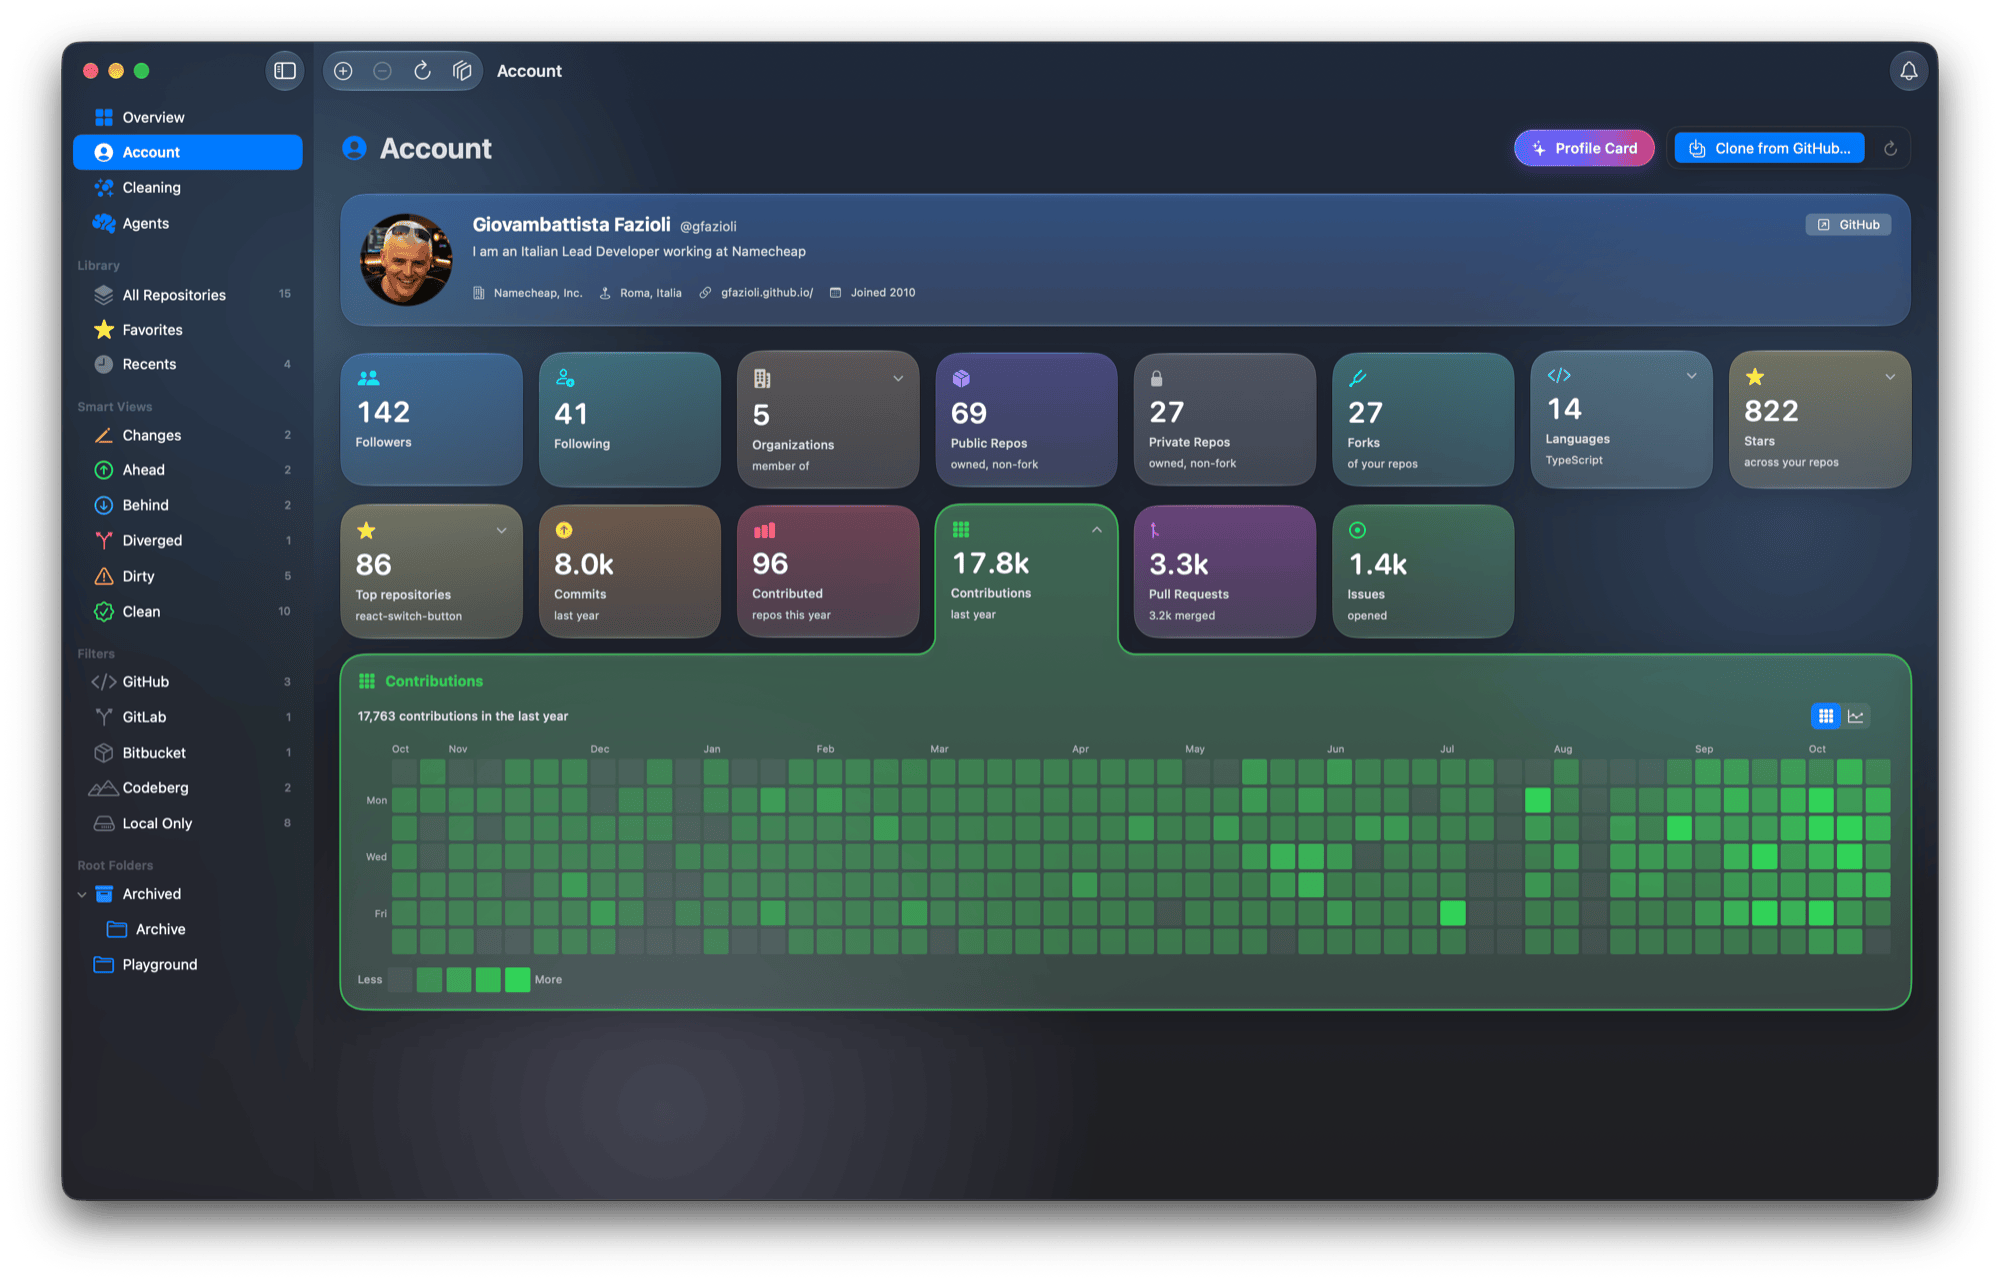
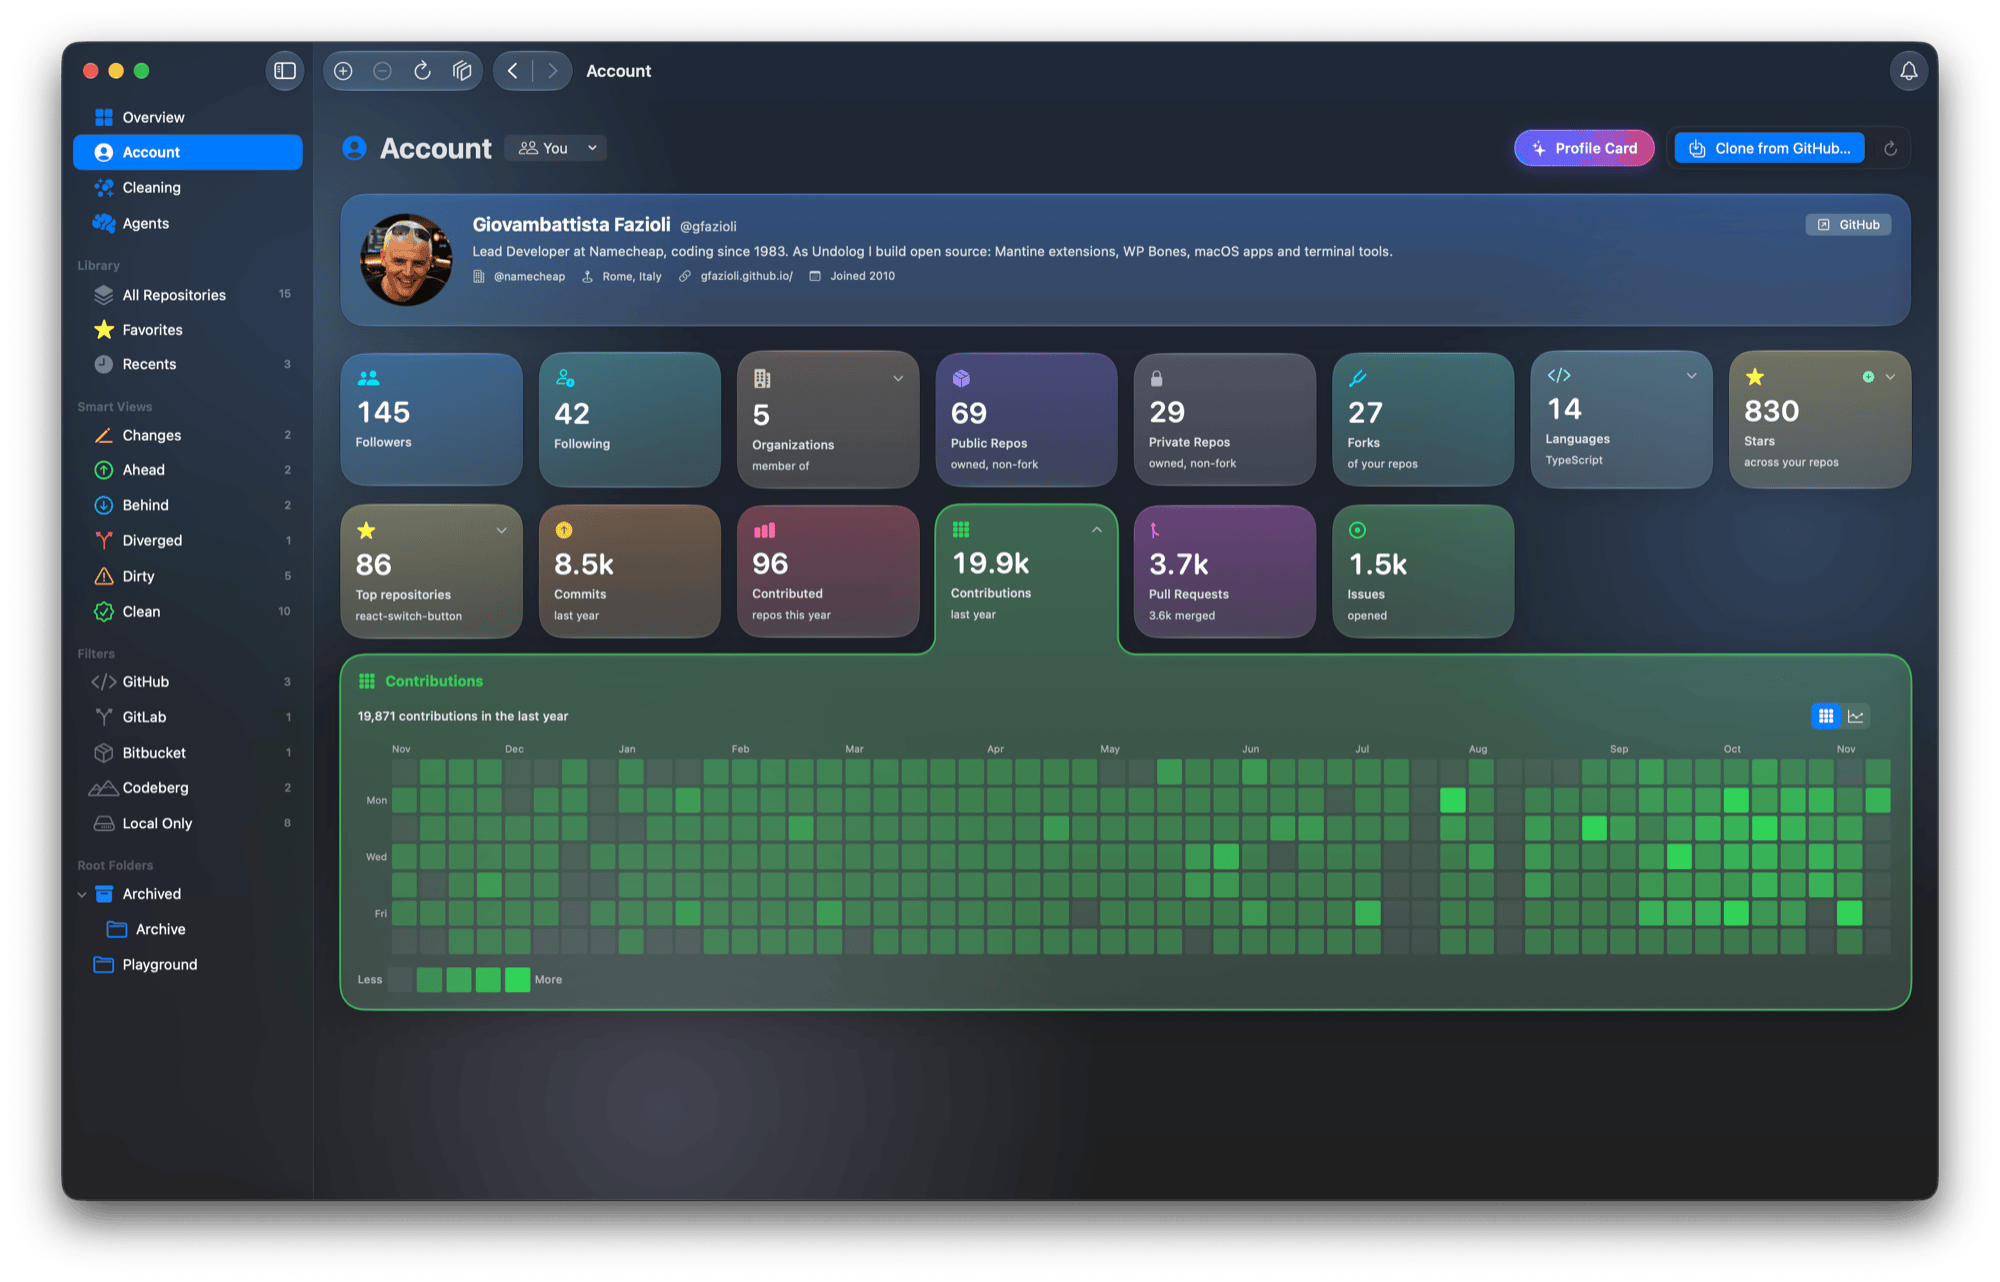
feat(sparkle): publish FinderGit v0.60.1 to appcast

diff --git a/public/release-notes/0.60.1.html b/public/release-notes/0.60.1.html
@@ -1,0 +1,104 @@
+<!DOCTYPE html>
+<html lang="en">
+<head>
+<meta charset="utf-8">
+<meta name="viewport" content="width=device-width, initial-scale=1">
+<title>FinderGit 0.60.1 — Release Notes</title>
+<style>
+  :root {
+    color-scheme: light dark;
+    --bg: #ffffff;
+    --fg: #1a1a1a;
+    --accent: #007aff;
+    --muted: #6b6b73;
+    --code-bg: #f4f4f5;
+    --border: rgba(0,0,0,0.12);
+  }
+  @media (prefers-color-scheme: dark) {
+    :root {
+      --bg: #1c1c1e;
+      --fg: #ececec;
+      --muted: #9c9ca5;
+      --code-bg: #2c2c2e;
+      --border: rgba(255,255,255,0.14);
+    }
+  }
+  * { box-sizing: border-box; }
+  body {
+    font: 14px/1.55 -apple-system, BlinkMacSystemFont, "SF Pro Text", "Helvetica Neue", sans-serif;
+    color: var(--fg);
+    background: var(--bg);
+    margin: 0 auto;
+    padding: 20px 24px 40px;
+    max-width: 720px;
+  }
+  header.page-header {
+    border-bottom: 1px solid var(--border);
+    padding-bottom: 14px;
+    margin-bottom: 22px;
+  }
+  header.page-header h1 { font-size: 1.7em; margin: 0 0 4px; letter-spacing: -0.02em; }
+  header.page-header .subtitle { color: var(--muted); margin: 0; font-size: 0.92em; }
+  h1, h2, h3, h4 { letter-spacing: -0.01em; margin: 1.5em 0 0.5em; }
+  h1 { font-size: 1.4em; }
+  h2 { font-size: 1.2em; }
+  h3 { font-size: 1em; }
+  a { color: var(--accent); }
+  hr { border: 0; border-top: 1px solid var(--border); margin: 22px 0; }
+  ul, ol { padding-left: 1.4em; }
+  li { margin: 4px 0; }
+  code {
+    font: 0.9em ui-monospace, "SF Mono", Menlo, Consolas, monospace;
+    background: var(--code-bg);
+    padding: 1px 5px;
+    border-radius: 3px;
+  }
+  pre {
+    background: var(--code-bg);
+    padding: 12px 14px;
+    border-radius: 6px;
+    overflow-x: auto;
+    font-size: 0.88em;
+  }
+  pre code { background: transparent; padding: 0; font-size: 1em; }
+  blockquote {
+    margin: 12px 0;
+    padding-left: 12px;
+    border-left: 3px solid var(--border);
+    color: var(--muted);
+  }
+  table { border-collapse: collapse; width: 100%; margin: 12px 0; font-size: 0.95em; }
+  th, td { border: 1px solid var(--border); padding: 6px 10px; text-align: left; }
+  th { background: var(--code-bg); }
+  img { max-width: 100%; }
+</style>
+</head>
+<body>
+<header class="page-header">
+  <h1>FinderGit 0.60.1</h1>
+  <p class="subtitle">Release notes</p>
+</header>
+<p>FinderGit 0.60.1 — a Profile Card for anyone's profile</p>
+<h2>Highlights</h2>
+<ul>
+<li><strong>A Profile Card for another person's profile.</strong> When Account shows someone else's public profile, <strong>Profile Card</strong> now makes their card: their public figures, contributions, stars, top repositories and languages on one picture, to save as an image or a PDF, copy or share. The card window follows the Account page, so going back to your own profile brings your card back.</li>
+</ul>
+<h2>Bug fixes</h2>
+<ul>
+<li><strong>Clone from GitHub…</strong> no longer appears beside another person's profile, where it listed your own repositories rather than theirs.</li>
+<li>On another person's card, Forks reads "of their repos", and the link to put the card on your GitHub profile is not offered, since it sets up your own README.</li>
+</ul>
+<h2>Under the hood</h2>
+<ul>
+<li>Another account's card reads its public repositories on <code class="notranslate">user(login:)</code> and its public pull requests and issues with <code class="notranslate">author:&lt;login&gt;</code> searches, every value passed as a GraphQL variable, and caches them per login for five minutes like the profile itself.</li>
+</ul>
+<h2>Install</h2>
+<ol>
+<li>Download <code class="notranslate">FinderGit-0.60.1.dmg</code></li>
+<li>Open the DMG and drag FinderGit into Applications (or open it from there, and it offers to move itself)</li>
+<li>Launch normally — the app is signed with an Apple Developer ID and notarized by Apple</li>
+</ol>
+<h2>Requirements</h2>
+<p>macOS 15 or later. Universal binary (Apple Silicon and Intel).</p>
+</body>
+</html>

diff --git a/config/index.ts b/config/index.ts
@@ -98,7 +98,7 @@ export default {
     defaultLanguage: 'en',
   },
   app: {
-    version: '0.60.0',
+    version: '0.60.1',
     // Publication date of `version`, UTC, written by release.sh next to the
     // version itself. It is the OFFLINE FALLBACK for the homepage release
     // strip: the live date and the release count come from the GitHub
